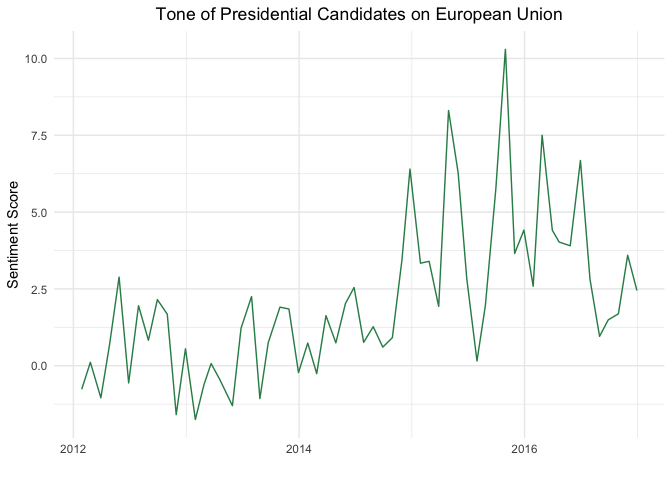
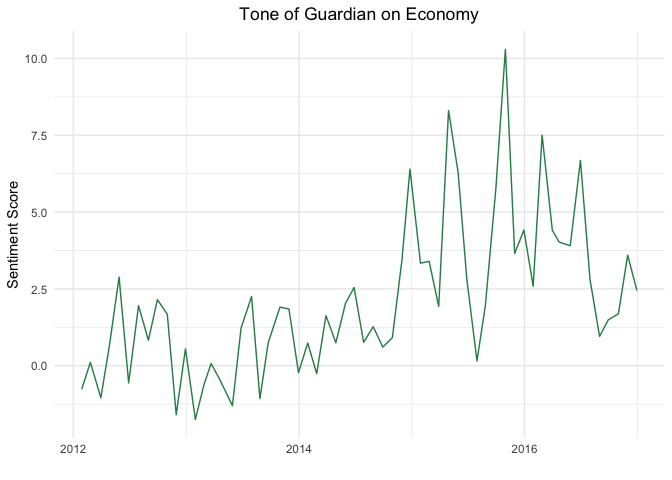
add mini-hackathon1 update Guardian news paper

Changed region(s): [[0.2188, 0.0, 0.8438, 0.0625]]

diff --git a/Mini-Hackathon1-Guardian.md b/Mini-Hackathon1-Guardian.md
@@ -163,7 +163,7 @@ library(tidyverse)
 ggplot(df, mapping = aes(x = date, y = sentiment1)) +
   geom_line(color = "seagreen") +
   labs(x = "", y = "Sentiment Score", 
-       title= "Tone of Presidential Candidates on European Union") +
+       title= "Tone of Guardian on Economy") +
   theme_minimal() +
   theme(plot.title = element_text(hjust = 0.5)) #to center the title of the plot
 ```
@@ -204,7 +204,7 @@ df <- result_AFINN %>%
 ggplot(df, mapping = aes(x = date, y = sentiment1, group = id, colour = id)) +
   geom_line() +
   labs(x = "", y = "Sentiment Score", 
-       title= "Tone of Presidential Candidates on European Union") +
+       title= "Tone of Guardian on Economy") +
   theme_minimal() +
   scale_color_manual(values=c("seagreen", "violet")) +
   theme(plot.title = element_text(hjust = 0.5),
